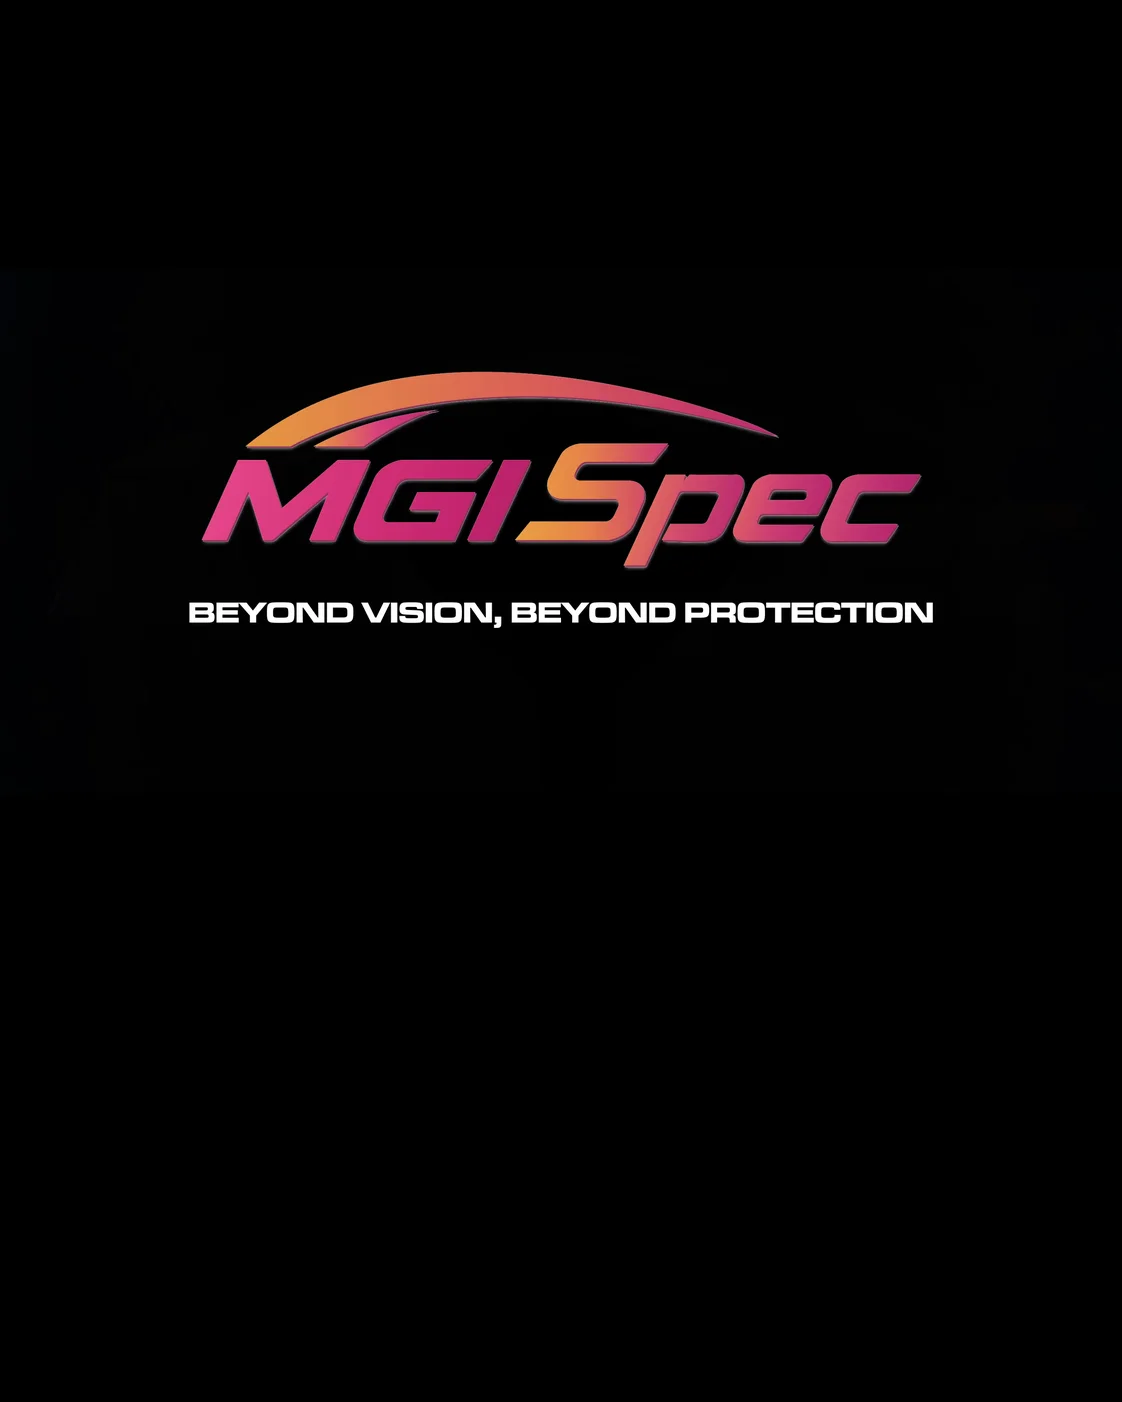
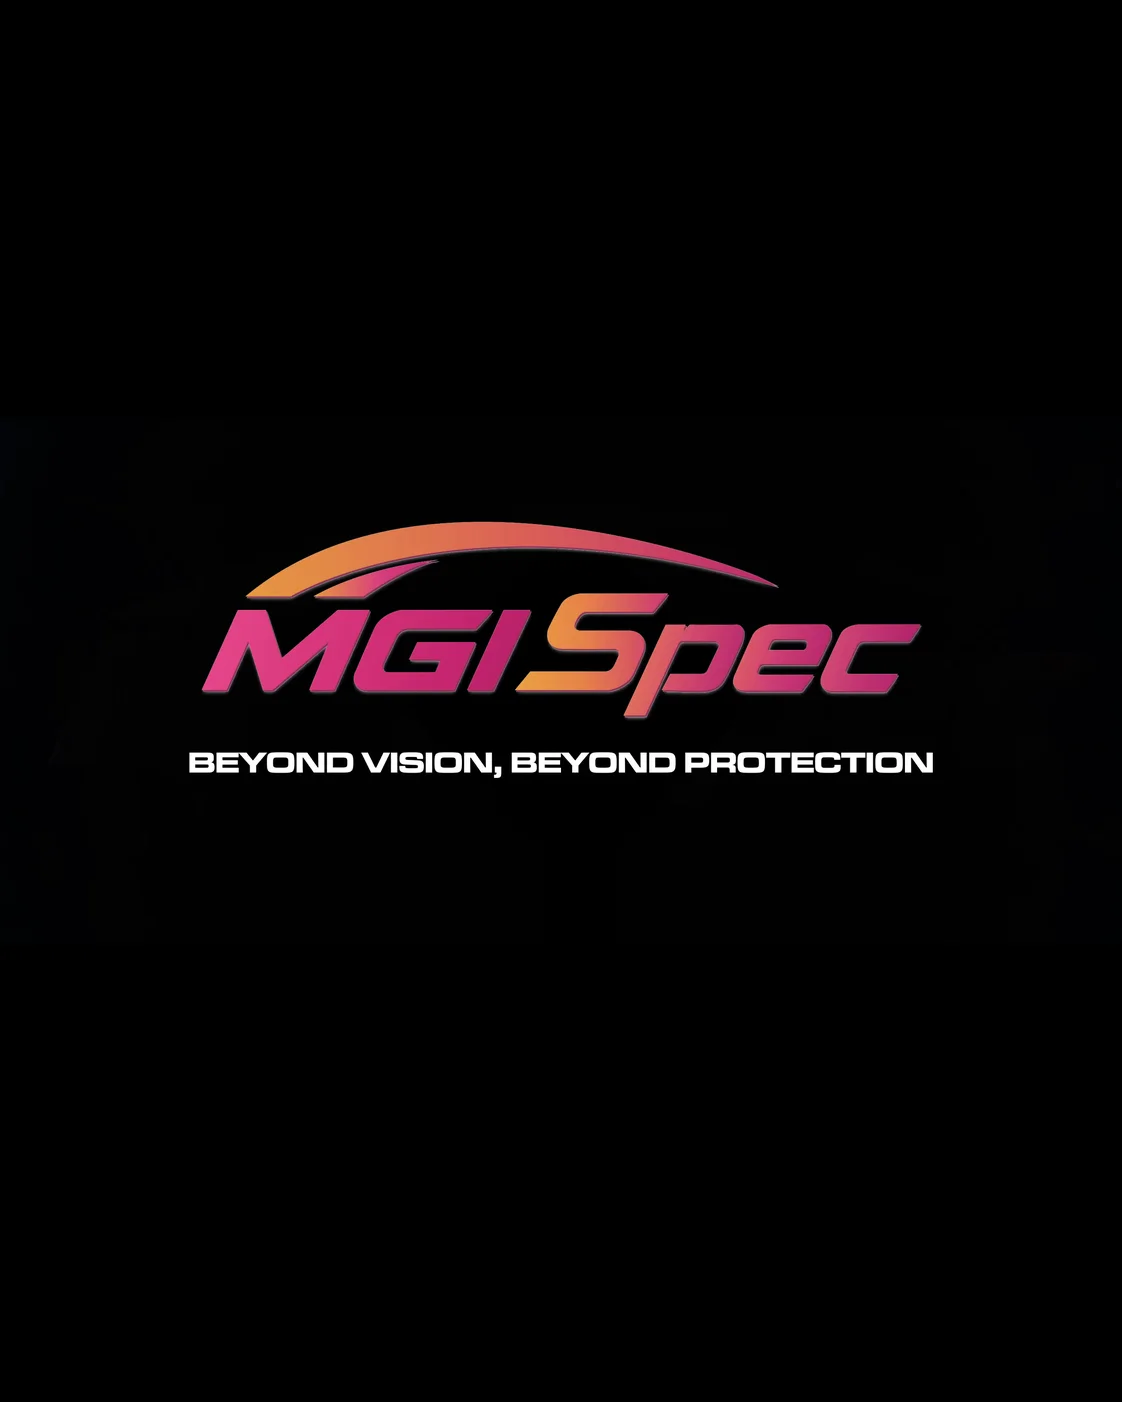
Move launch video mobile poster below the header (new file name via migration)

Changed region(s): [[0.156, 0.2454, 0.8422, 0.5521]]

diff --git a/kacamata/mgispec/database/migrations/2026_11_05_140000_update_launch_video_mobile_poster.php b/kacamata/mgispec/database/migrations/2026_11_05_140000_update_launch_video_mobile_poster.php
@@ -1,0 +1,54 @@
+<?php
+
+use Illuminate\Database\Migrations\Migration;
+use Illuminate\Support\Facades\DB;
+use Illuminate\Support\Facades\File;
+use Illuminate\Support\Facades\Storage;
+
+/**
+ * The first mobile poster put the MGISpec logo right under the transparent site header (the two logos overlapped).
+ * The new poster sits lower. It is published under a new file name so browsers do not keep showing the cached one.
+ */
+return new class extends Migration
+{
+    private const TARGET = 'sliders/launching-poster-mobile-v2.webp';
+
+    public function up(): void
+    {
+        $from = public_path('videos/launching-poster-mobile.webp');
+        $row = DB::table('sliders')->where('video_path', 'videos/launching-mgispec.mp4')->first();
+        if (! $row || ! File::exists($from)) {
+            return;
+        }
+
+        $stream = fopen($from, 'rb');
+        Storage::disk('public')->put(self::TARGET, $stream);
+        is_resource($stream) && fclose($stream);
+
+        $publicDir = public_path('storage');
+        $mirror = is_dir($publicDir) && ! is_link($publicDir)
+            && realpath($publicDir) !== realpath(storage_path('app/public'));
+        if ($mirror) {
+            File::ensureDirectoryExists(dirname($publicDir.'/'.self::TARGET));
+            File::copy($from, $publicDir.'/'.self::TARGET);
+        }
+
+        $mobile = json_decode((string) $row->mobile_image, true) ?: [];
+        $mobile['id'] = self::TARGET;
+        DB::table('sliders')->where('id', $row->id)->update([
+            'mobile_image' => json_encode($mobile),
+            'updated_at' => now(),
+        ]);
+    }
+
+    public function down(): void
+    {
+        $row = DB::table('sliders')->where('video_path', 'videos/launching-mgispec.mp4')->first();
+        if ($row) {
+            $mobile = json_decode((string) $row->mobile_image, true) ?: [];
+            $mobile['id'] = 'sliders/launching-poster-mobile.webp';
+            DB::table('sliders')->where('id', $row->id)->update(['mobile_image' => json_encode($mobile)]);
+        }
+        Storage::disk('public')->delete(self::TARGET);
+    }
+};
